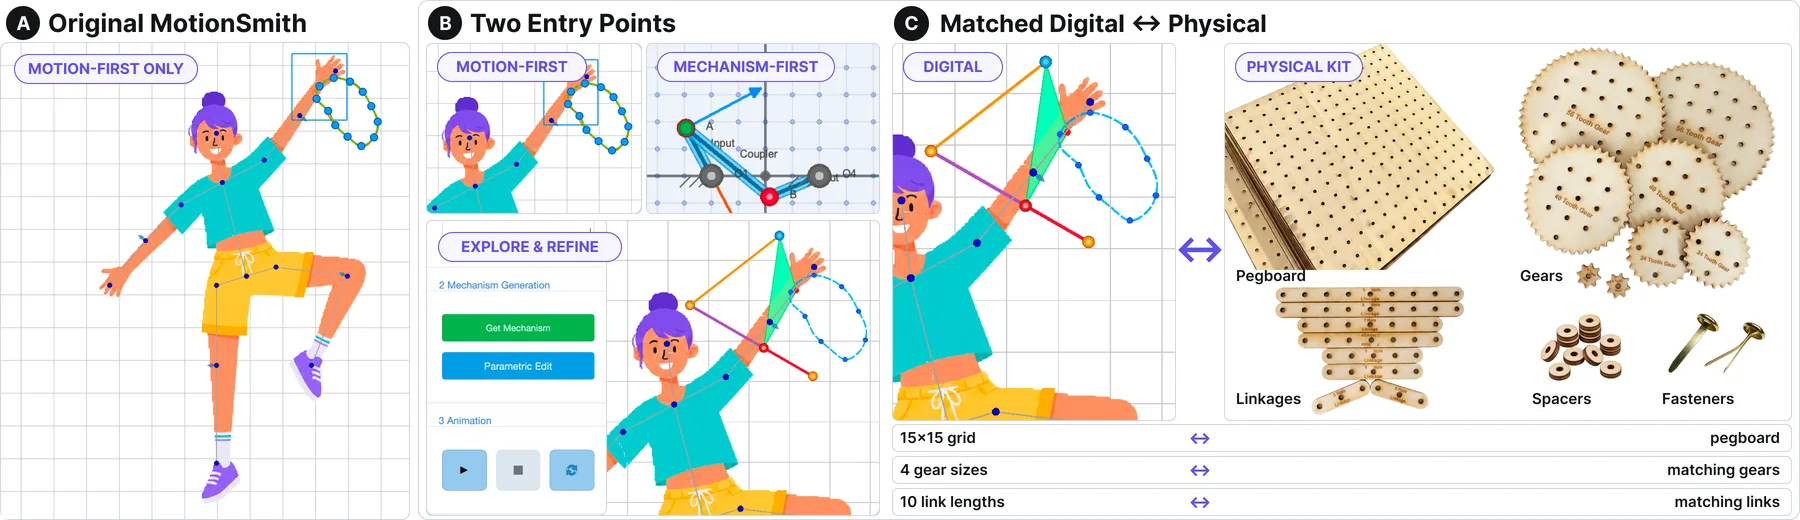
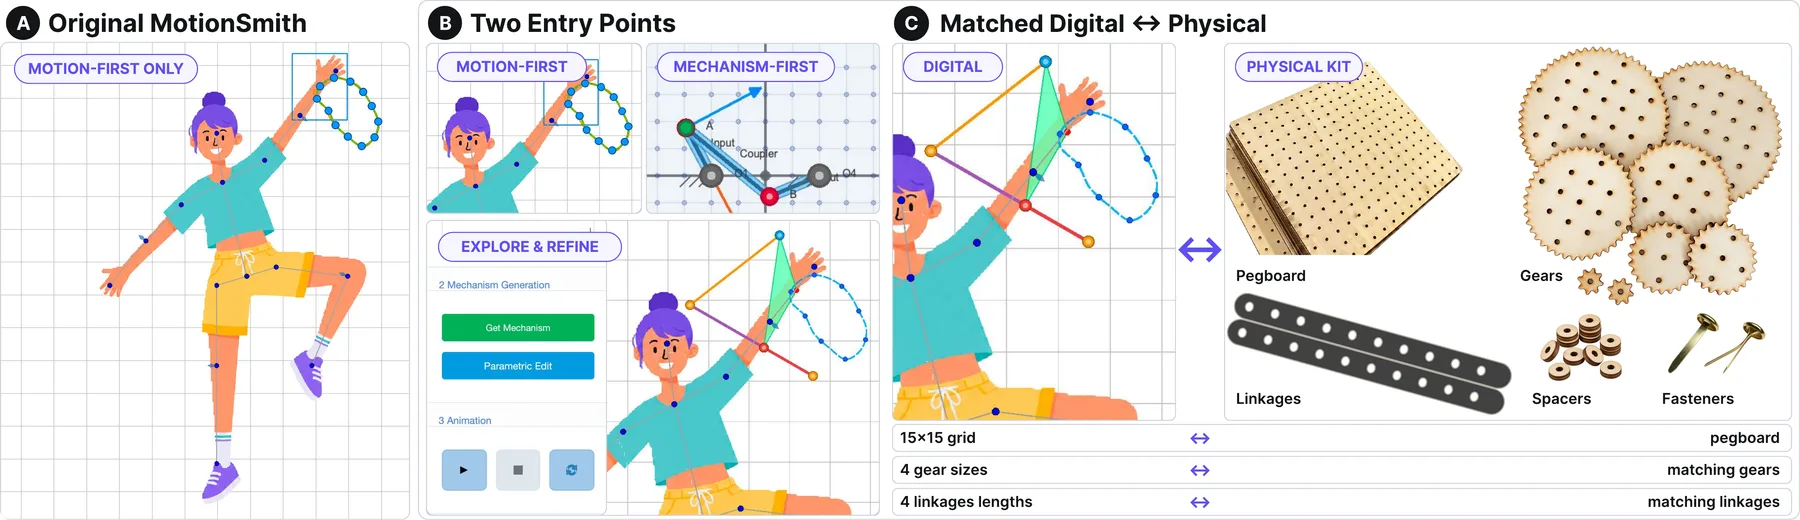
feat(project): re-sync young-makers page to the revised paper
Full content re-sync against the current manuscript (Sep 15 revision,
~/Workspace/motionsmith-overleaf/master-2) — every sentence, number,
caption, and quote traces to it:

- hero: revised title (3 lines), 3 authors, teaser caption verbatim
- gallery: fig 3 (caption unchanged) + fig 4 (new caption verbatim)
- system: fig 2 caption verbatim; FIVE consideration->revision panels
  (was four); §3 tensions + §4.1 starting conditions in the intro
- results: stats 4/5/3/129; settings table compiled from §6.2 prose
  (the revision's old deployment table is commented out in the tex)
- cases: T1/T3/T4 re-sourced — 58/35/36 students, T4 now Grade 6,
  verbatim participant quotes; case images are crops of the paper's
  fig 8 montage panels F/D/B (the panels each case's prose cites)
- removed stale v1 numbers (~200 students, 28/26 focal, School A/B
  labels — the revised text no longer names the schools) and the three
  superseded images (classroom-session, student-automaton, ms-prompts)
- demo video unchanged: the app at /ms is unmodified; intro re-phrased

diff --git a/content/projects/young-makers.md b/content/projects/young-makers.md
@@ -1,5 +1,5 @@
 ---
-title: "MotionSmith for Young Makers: Participatory Design and Deployment of a Mechanical Movement Design System with STEM Educators"
+title: "MotionSmith for Young Makers: Educator Co-Design and Enactment of a Mechanical CAD System"
 category: "research"
 paper: "synn2027youngmakers"
 order: 1
@@ -9,16 +9,15 @@ hero_eyebrow: "In review"
 title_mark: "MotionSmith"
 title_lines:
   - { mark: "MotionSmith", rest: "for Young Makers:" }
-  - { rest: "Participatory Design and Deployment of" }
-  - { rest: "a Mechanical Movement Design System" }
-  - { rest: "with STEM Educators" }
+  - { rest: "Educator Co-Design and Enactment" }
+  - { rest: "of a Mechanical CAD System" }
 # Paper teaser caption, verbatim (main.tex teaser figure).
-teaser_caption: "MotionSmith is a sketch-based computational design system for automata making, adapted for young makers through participatory design with STEM educators. From left to right: (A) educators co-design the system in a hybrid workshop; (B) a maker sketches an intended motion and MotionSmith synthesizes fabricable mechanism candidates; (C) educators deploy the refined system in middle-school classrooms where (D) young makers design and fabricate working automata."
+teaser_caption: "MotionSmith is a sketch-based computational design system for automata making, adapted for young makers through participatory design with STEM educators. From left to right: (A) educators co-design the system in a hybrid workshop; (B) the resulting system is redesigned around young makers, through a classroom-oriented authoring workflow, a reusable fabrication kit, and instructional supports, enabling a maker to sketch an intended motion and explore synthesized, fabricable mechanism candidates, and move from digital design toward physical construction; and (C) educators enact the refined system in middle-school classrooms, where young makers collaboratively design and construct automata."
 # Compressed from the abstract (00-abstract.tex); expressions preserved.
-summary: "A sketch-based mechanical CAD system originally developed with expert automata artists, reshaped by four K–8 STEM educators into a classroom-facing environment — through a three-phase participatory design workshop and classroom deployments led by three participating educators."
+summary: "A sketch-based system for automata making originally developed with expert artists, adapted for young makers through a three-phase participatory design study with four K–8 STEM educators — and enacted in middle-school classrooms by three of them with 129 students at two schools."
 affiliations:
   - "Georgia Tech"
-author_affil: [1, 1, 1, 1]
+author_affil: [1, 1, 1]
 # Hero CTA chips: the live revised system. links[0] renders solid; non-anchor
 # links open in a new tab (isInternalHref treats /ms as internal — see
 # AcademicProject.astro). Code / Demo / BibTeX chips derive from papers.bib +
@@ -32,8 +31,8 @@ nav:
   - Results
   - Cases
   - Citation
-overview_heading: "Reshaping an expert-oriented CAD tool into a classroom-facing environment."
-# The workshop figures (paper figs 41/42) render as a two-up gallery with their
+overview_heading: "Bringing expert-oriented mechanical CAD into classrooms."
+# The workshop figures (paper figs 3/4) render as a two-up gallery with their
 # verbatim captions; the heading override replaces the graphics default.
 gallery_heading: "The co-design workshop"
 gallery:
@@ -45,207 +44,203 @@ gallery:
       wide: true
       caption: "Researcher-led workshop starting configuration before educator co-design. (A) Original MotionSmith supported a motion-first workflow. (B) We added a mechanism-first entry point so that motion-first and mechanism-first exploration could converge in a shared authoring space. (C) We matched the constrained digital design space to a reusable physical kit through a 15 × 15 grid, four gear sizes, and ten indexed linkage lengths. These elements were study starting conditions rather than educator-derived refinements."
     - src: "/images/young-makers/workshop-timeline.webp"
-      alt: "A compact timetable with three equal-width phase columns: Days 1–2 (10 hours in person), Day 3 (5 hours in person), and a remote phase of approximately 5 hours."
-      label: "Three-phase timetable"
+      alt: "Three panels illustrating the educator co-design process, with an unnumbered research-team revision block between Panels B and C: Experience as first-time users (10 hours in person over Days 1–2), Reframe as classroom facilitators (5 hours in person on Day 3), and Review & co-design as pedagogical designers (approximately 5 hours remotely), the research-team block synthesizing revisions to the digital system, physical kit, and facilitation supports."
+      label: "Three perspectives"
       wide: true
-      caption: "Three-phase timetable for the completed educator participatory-design workshop. Phase 1 (Days 1–2; 10 hours in person) asked educators to work as first-time users who explored MotionSmith, built automata, and documented breakdowns, questions, and redesign suggestions. Phase 2 (Day 3; 5 hours in person) shifted their perspective to classroom facilitators who mapped the student journey and designed instructional supports, coordination strategies, and assessment checkpoints. Phase 3 (remote; approximately 5 hours) asked educators to work as pedagogical designers who reviewed the revisions, proposed further refinements, and developed lesson plans and classroom-enactment criteria."
+      caption: "Educator co-design across three perspectives. (A) Experience through use and fabrication as first-time users. (B) Reframe through planning as classroom facilitators. (C) Review & co-design as pedagogical designers, reviewing revisions, developing lesson plans, and commenting on draft classroom-enactment criteria. The dashed return arrow represents their further critique and proposed refinements. The unnumbered block between (B) and (C) represents a research-team synthesis of educator experiences and classroom requirements into revisions to the digital system, physical kit, and facilitation supports."
 # Demo = a scripted screen recording of the live revised system at /ms.
 demo:
   src: "/videos/young-makers-demo.mp4"
   poster: "/videos/young-makers-poster.webp"
   alt: "Screen recording of a guided MotionSmith walkthrough: picking the Make a hand wave starter, exploring the layered 2.5D character canvas, playing the hand-wave motion, examining the four-bar mechanism candidate and prompt panel, and viewing the build plan and assembly steps."
-  intro: "A walkthrough of the revised system — classroom-oriented authoring workflows, a constrained reusable fabrication kit, and educator-facing scaffolds — recorded from the live deployment at alansynn.com/ms."
-# System section mirrors the paper's §3 (baseline + tensions) → §5
-# (considerations + revisions). The workflow figure is paper fig 31 with its
-# verbatim caption; the stage panels carry the four consideration titles
+  intro: "A walkthrough of the revised system — the classroom-oriented authoring workflow, the reusable fabrication kit, and the instructional supports — recorded from the live deployment at alansynn.com/ms."
+# System section mirrors the paper's §3 (baseline + tensions) → §5 (five
+# considerations + revisions). The workflow figure is paper fig 2 with its
+# verbatim caption; the stage panels carry the five consideration titles
 # verbatim, each followed by its resulting revision (compressed).
 system:
   heading: "Educator-informed design considerations and revisions"
-  intro: "MotionSmith is a sketch-based computational design system originally developed through participatory design with expert automata artists. The original workflow supports makers through three main stages — identifying a motion goal, exploring mechanism candidates, and exporting fabrication-ready outputs — and was designed to be iterative rather than linear."
+  intro: "MotionSmith is a sketch-based computational design system originally developed through participatory design with expert automata artists. Before the educator collaboration, the research team identified three assumptions of the expert workflow that might become consequential in classrooms — concerning the formulation of motion goals, the interpretation of computational information, and the transition from digital design to physical construction — and prepared starting conditions for educators to examine through hands-on use: a dual-path workflow, interactive mathematical explanations, and a grid-constrained environment paired with a reusable physical kit. Educators' input informed five design considerations linking their experiences and classroom requirements to revisions of MotionSmith, the physical kit, and instructional supports."
   workflow:
     src: "/images/young-makers/original-system.webp"
     alt: "A three-panel pipeline diagram showing the MotionSmith workflow from sketching a motion goal, through exploring parameterized mechanism candidates, to exporting fabrication-ready files, with bidirectional arrows indicating iteration between stages."
-    caption: "Overview of the original MotionSmith workflow. Users (a) identify a motion goal by sketching a path on an articulated character rig, (b) explore computationally synthesized mechanism candidates across three families with approximate motion-match scores and edit their parameters, and (c) export fabrication-ready layered vectors for laser cutting, 3D printing, or hand-cutting. Arrows indicate that the workflow is iterative rather than linear."
+    caption: "Original MotionSmith workflow. Users (A) sketch a motion path on an articulated character rig, (B) compare and edit synthesized mechanism candidates, and (C) export fabrication files for physical construction."
   stages:
     - index: "01"
-      title: "Sustaining Progress Across Entry, Interruption, and Recovery"
-      text: "File-based saving and resumption; the workflow divided into smaller, recoverable stages; prepared examples and a workflow overview as recognizable starting points; localized recovery controls alongside the global reset; and a browser-based version for school-managed devices."
+      title: "Providing a Concrete Yet Revisable Design Goal"
+      text: "Motion-first is now the default workflow: the system opens with a blank articulated-character template, and users can retain the template or replace it with an imported image as their ideas develop. When the template is retained, its component outlines are incorporated into the exported fabrication files, so the character can be constructed and personalized through physical craft."
     - index: "02"
-      title: "Making Mechanism and Assembly Relationships Spatially Legible"
-      text: "A layered 2.5D visualization that spatially separated overlapping components, fixed joints differentiated from moving connections, and a stacked assembly view showing component order, connection locations, and required spacing before physical construction."
+      title: "Sustaining Progress Across Entry, Interruption, and Recovery"
+      text: "A browser-based version removes installation barriers on school-managed devices; prepared examples and a workflow overview provide recognizable starting points; manual save and load let users download an editable project file and reimport it to continue across class periods; and a history of up to ten coarse-grained events lets users return to earlier design states."
     - index: "03"
-      title: "Aligning Digital Designs with Reusable Classroom Materials"
-      text: "Cut-to-length linkages replaced with reusable plywood linkages in standardized lengths, a shared size and labeling scheme across the software, fabrication files, and physical kit, and printable parts condensed into a one- or two-page packet."
+      title: "Making Mechanism and Assembly Relationships Spatially Legible"
+      text: "The simulation canvas now uses a layered 2.5D visualization that spatially separated overlapping components while retaining the underlying planar mechanism model, fixed joints are differentiated from moving connections, and a stacked assembly view in the fabrication instructions shows component order, connection locations, and required spacing before physical construction."
     - index: "04"
+      title: "Aligning Digital Designs with Reusable Classroom Materials"
+      text: "Cut-to-length illustration-board linkages are replaced with reusable plywood linkages in standardized lengths, a shared size and labeling scheme spans the software, fabrication files, and physical kit, printable parts condense into a one- or two-page packet, and screen-based instructions show connection locations, layering, spacers, and assembly order."
+    - index: "05"
       title: "Supporting Educator-Configured Explanation and Activity"
-      text: "Real-world application examples linked to curated online videos, and an on-demand prompt panel from which educators select questions aligned with their instructional goals — asking students to predict, compare, explain, or diagnose."
+      text: "Explanatory support became a configurable resource for classroom facilitation: an on-demand prompt panel from which educators select questions asking students to predict how a change would affect motion, compare alternatives, explain an observed result, or diagnose a difference between simulated and physical behavior, supplemented by real-world application examples linked to curated online videos."
   zoom:
     src: "/images/young-makers/ms-canvas.webp"
     alt: "The revised MotionSmith Mechanism Foundry: a four-bar linkage candidate playing on the layered canvas beside the prompt panel, stack readout, rig-opacity and explode sliders, and kit-compatible link-hole parameters."
     caption: "The revised system, live at alansynn.com/ms — a four-bar candidate in the Mechanism Foundry with the on-demand prompt panel and kit-compatible link-hole parameters (3-, 9-, 5-hole)."
   interface:
     heading: "The revisions, in the live system"
-    copy: "The simulation canvas uses a layered 2.5D visualization that spatially separates overlapping components, fixed joints are differentiated from moving connections, and a stacked assembly view joins the fabrication instructions. An on-demand prompt panel lets educators select questions aligned with their instructional goals."
-# The deployment study under its own name (§6). stat values are the paper's.
+    copy: "The simulation canvas uses a layered 2.5D visualization that spatially separates overlapping components, fixed joints are differentiated from moving connections, and a stacked assembly view joins the fabrication instructions. An on-demand prompt panel lets educators select questions aligned with their instructional goals — asking students to predict, compare, explain, or diagnose."
+# The enactment study under its own name (§6). stat values are the paper's.
 results_heading: "Classroom enactment"
 stat_callouts:
-  - { value: "4", label: "K–8 STEM educators in the three-phase hybrid participatory design workshop" }
-  - { value: "3", label: "middle-school classroom deployments led by participating educators" }
-  - { value: "~20 h", label: "of co-design across three phases, in-person and remote" }
-  - { value: "40–80 min", label: "class periods the activities were designed to span" }
-# The deployment table as the paper has it (§6, Table: columns and rows
-# verbatim; per-cell line breaks become "·").
+  - { value: "4", label: "K–8 STEM educators in the three-phase participatory design study" }
+  - { value: "5", label: "educator-informed design considerations, implemented as revisions to the workflow, kit, and instructional supports" }
+  - { value: "3", label: "classroom enactments at two schools, led by three of the four educators" }
+  - { value: "129", label: "middle-school students in the enacted classroom activities" }
+# Compiled from §6.2's prose — the revision's old classroom-settings table is
+# commented out in the tex, so the page rebuilds the settings from the text.
 results:
-  caption: "Overview of the three classroom deployments and representative evidence."
-  note: "Approximately 80 students participated across T3's and T4's separate School A classes in total. Case identifiers follow the paper (T1–T4; Schools A and B)."
-  columns: ["Case", "Local activity configuration", "Representative enactment evidence", "Operational context"]
+  caption: "Classroom settings for the three educator-led enactments, compiled from Section 6.2 of the paper."
+  note: "All three educators planned projects in groups of two or three students; 36 fabrication kits were prepared and 18 supplied to each school; both schools provide a Chromebook for every student. T1's enactment is documented through educator reports and materials, while T3's second and T4's third sessions were directly observed."
+  columns: ["Case", "Class", "Students", "Sessions"]
   rows:
     - {
         cells:
           [
-            "T1 · Grade 6 STEAM · 3 sessions; ~200 · 38 focal",
-            "Imagine Yourself as a Scientist; “computer scientists” and “graphic designers”",
-            "Differentiated roles across simulation, character design, and construction; projects resumed across sessions",
-            "Saved/reopened projects; group boxes; 16 reusable kits + spares; district access approval",
+            "T1 · Grade 6 STEAM",
+            "2 classes",
+            "58",
+            "4 × ~45 min",
           ],
       }
     - {
         cells:
           [
-            "T3 · Grade 8 STEM · 3 sessions · 24 focal",
-            "Open exploration across character motion, mechanisms, and fabrication",
-            "Groups chose their own designs and progressed through the digital-to-physical workflow",
-            "Work continued across sessions; shared kits; School A IT approval",
+            "T3 · Grade 8 Engineering Foundation",
+            "1 class",
+            "35",
+            "3 × 60 min",
           ],
       }
     - {
         cells:
           [
-            "T4 · Grade 8 STEM · 4 sessions · 26 focal",
-            "10–15 min Exploration Challenge; screenshot + reflection",
-            "Copilot-supported troubleshooting; question about changing the physical assembly from the blueprint",
-            "Group-box storage; component reuse; School A managed devices",
+            "T4 · Grade 6 STEM",
+            "1 class",
+            "36",
+            "3 × 55 min",
           ],
       }
-# §6.3 accounts, verbatim where quoted. Case images are the paper's own teaser
-# panels (C/D crops) and the live prompt panel; captions describe the images
-# honestly rather than asserting a specific classroom match.
+# §6.3 accounts, verbatim where quoted. Case images are crops of the paper's
+# own deployment montage (Fig. 8): T1 → panel F, T3 → panel D, T4 → panel B
+# (the panels the prose cites for each classroom). Captions name the panel.
 cases_heading: "Educator-led classroom enactments"
-cases_intro: "The refined criteria focused on evidence of students' design processes through reflection, goal-linked revision, documentation, sharing, and transfer — T2 stated that “effective iteration is more than making changes.” Three of the educators then enacted the configuration in their own middle-school classrooms."
+cases_intro: "Three criteria — sustained and productive engagement, intentional design and iterative revision, and interest in continuing or extending the activity — guided attention during the enactments; T2 noted that “effective iteration is more than making changes.” In post-activity interviews, all three educators reported high student engagement and expressed plans to use MotionSmith and the accompanying kits again."
 cases:
   - tab: "T1 · Grade 6 STEAM"
-    subtitle: "School B · 3 sessions"
-    image: "/images/young-makers/classroom-session.webp"
-    alt: "Middle-school students working in MotionSmith on desktop computers during a classroom deployment."
-    caption: "Students working in MotionSmith during a classroom deployment (paper teaser, panel C)."
-    lede: "At School B, T1 connected MotionSmith to his existing Imagine Yourself as a Scientist activity, in which students designed a character and its movement before moving toward physical construction."
+    subtitle: "2 classes · 58 students · 4 sessions"
+    image: "/images/young-makers/case-t1.webp"
+    alt: "MotionSmith running on a laptop beside a hand-drawn segmented character on paper."
+    caption: "A student-drawn character accompanies MotionSmith use (paper Fig. 8, panel F)."
+    lede: "T1 integrated MotionSmith into an ongoing activity themed “Imagine Yourself as a Scientist”: students first drew their scientist characters and designed movements for them in MotionSmith, and divided responsibilities between digital design and physical construction when projects moved to team work."
     facts:
       - {
           label: "Differentiated roles",
-          text: "“We split the class into roles, computer scientists and graphic designers.” Students working at the computer concentrated on simulation and motion design, while other group members worked on character design, decoration, and construction.",
+          text: "“We split the class into roles, computer scientists and graphic designers,” T1 reported during enactment; some students concentrated on digital design while others constructed the mechanisms for their envisioned scientist characters.",
+        }
+      - {
+          label: "Engagement and access",
+          text: "T1 reported in text messages that students “really like the simulation,” and recorded in his written notes that students wanted to continue working on their projects; the simulation was initially blocked and ran slowly on the school network, and he described difficulty recalling a procedure during class: “I couldn't remember how to do it and I don't have the time to try and figure it out with the students here.”",
         }
       - {
           label: "Continuity across sessions",
-          text: "Groups reopened saved MotionSmith projects during later periods and stored unfinished physical work together in group boxes; reusable mechanism components were returned to the shared kits after completion.",
+          text: "Students lost unsaved progress when they reloaded the page or reopened the browser window, and the limited recovery history was insufficient for some students; T1 requested browser-based autosaving and additional recovery checkpoints, since manual save and load still depended on students remembering to save.",
         }
-      - {
-          label: "Scale",
-          text: "Approximately 200 students participated across T1's classes using 16 kits plus spare components.",
-        }
-  - tab: "T3 · Grade 8 STEM"
-    subtitle: "School A · 3 sessions"
-    image: "/images/young-makers/student-automaton.webp"
-    alt: "Students assembling a fabricated automaton from plywood gears and linkages on a pegboard."
-    caption: "Assembling fabricated automata from the reusable kit (paper teaser, panel D)."
-    lede: "At School A, T3 used MotionSmith as a largely open exploration, allowing groups to choose what they wanted to make and to explore character motion and mechanisms without assigning a single target design."
+  - tab: "T3 · Grade 8 Engineering Foundation"
+    subtitle: "1 class · 35 students · 3 sessions"
+    image: "/images/young-makers/case-t3.webp"
+    alt: "Several students gathered around a workstation running MotionSmith, with a nearby laptop displaying a teacher-provided activity document in Google Classroom."
+    caption: "Students working with MotionSmith alongside a teacher-provided activity document (paper Fig. 8, panel D)."
+    lede: "T3 began with 15–20 minutes of exploration on Chromebooks, then moved the activity to a computer lab, where desktop computers offered larger monitors and each team received a fabrication kit; designs began from the blank character template, with the physical components explored alongside the mechanism designs."
     facts:
       - {
-          label: "Open exploration",
-          text: "Groups chose their own designs and progressed through the digital-to-physical workflow — from digital character and motion design through mechanism exploration and into physical construction.",
+          label: "Purposeful revision",
+          text: "“What change had the biggest effect on the movement? What happened? Why do you think this happened?” — T3 reported asking questions like these frequently; his Exploration Challenge sheet asked students to change a motion or setting, try an alternative mechanism or design choice, and document the result through a screenshot and written reflection.",
         }
       - {
-          label: "Pace",
-          text: "Groups progressed at different rates, and unfinished work continued during subsequent periods.",
+          label: "An alternative six-bar",
+          text: "When a student asked whether the physical assembly could differ from the generated blueprint, T3 documented his encouragement of the direction; the student explored an alternative six-bar configuration, consulted the school-supported AI chat for guidance on how the mechanism could be constructed, and continued developing the design — exploration T3 described as educationally valuable.",
         }
       - {
-          label: "Operational context",
-          text: "Work continued across sessions; shared kits; School A IT approval.",
+          label: "What T3 asked for next",
+          text: "T3 noted that students “stayed on it” and wanted more time; he proposed networked access to saved group projects so he could review progress from his own computer, a teacher-facing interface for selecting shared projects as whole-class examples, and support for more advanced students to design complex mechanisms from scratch.",
         }
-  - tab: "T4 · Grade 8 STEM"
-    subtitle: "School A · 4 sessions"
-    image: "/images/young-makers/ms-prompts.webp"
-    alt: "The revised system's prompt panel: an educator-configurable question with Try, Look, and Hint supports, above the stack readout and kit-compatible link-hole parameters."
-    caption: "The revised system's on-demand prompt panel (alansynn.com/ms) — educators select questions aligned with their instructional goals."
-    lede: "T4 framed part of his School A deployment through a teacher-created Exploration Challenge, instructing students that their task was “not to master it” but to “experiment, notice what changes,” documented through a screenshot and brief reflection."
+  - tab: "T4 · Grade 6 STEM"
+    subtitle: "1 class · 36 students · 3 sessions"
+    image: "/images/young-makers/case-t4.webp"
+    alt: "Two students seated together in front of a desktop monitor displaying an articulated character and mechanism in MotionSmith."
+    caption: "Collaborative character and mechanism design at a shared workstation (paper Fig. 8, panel B)."
+    lede: "T4 devoted the first session to individual exploration and asked students to save their design files; in the second session he organized students into pairs and distributed the fabrication kits, and each pair reviewed its members' saved designs and negotiated a shared direction for the team project."
     facts:
       - {
-          label: "Copilot-supported troubleshooting",
-          text: "One student encountering a technical problem consulted the school's supported Copilot service; T4 asked the student how the returned information could be applied to the problem and prompted the student to identify a possible next step.",
+          label: "The high-five pair",
+          text: "One group wanted two characters to high-five; as students developed the idea, they recognized that one character needed to use its left hand and the other its right, and coordinated changes to their designs. T4 interpreted the episode as evidence that students were developing motion ideas, identifying constraints, and working through them together.",
         }
       - {
-          label: "A question from the blueprint",
-          text: "At least two groups had begun building when one student asked whether the assembly could be “different from [the] blueprint.” The available note does not record whether the group subsequently changed the assembly or mechanism.",
+          label: "Kit boxes and continuity",
+          text: "T4 emphasized the value of the kit boxes, which held the accompanying components, fit the available storage, and allowed work to continue across sessions.",
         }
       - {
-          label: "Operational context",
-          text: "Group-box storage; component reuse; School A managed devices.",
+          label: "Simpler starting points",
+          text: "Complex character-motion design remained demanding for his Grade 6 students, T4 felt; he wanted activities to begin with simpler mechanical actions, such as moving an object, while retaining students' freedom to personalize and decorate their artifacts.",
         }
 citation_heading: "Cite this work."
 citation_intro: "The paper is under review; the BibTeX below reflects its current public citation — venue and DOI follow acceptance."
 acknowledgments: "With thanks to the four educators who co-designed, critiqued, and carried this work into their classrooms, and to the two schools that opened their doors."
 ---
 
-Interactive systems developed for expert makers can be difficult to bring into
-classrooms, where successful use depends not only on the interface, but also on
-materials, facilitation, and curricular goals. We investigate this challenge
-through MotionSmith, a sketch-based mechanical CAD system for designing automata
-that was originally developed with expert automata artists. We conducted a
-three-phase hybrid participatory design workshop with four K-8 STEM educators,
-who engaged with MotionSmith as first-time users, instructional facilitators,
-and pedagogical designers. Their participation reframed the design problem from
-supporting individual mechanical authoring to supporting classroom activity
-across digital design, physical fabrication, and educator facilitation. Based on
-this collaboration, we revised MotionSmith with classroom-oriented authoring
-workflows, a constrained reusable fabrication kit, and educator-facing
-scaffolds, while educators developed activities and learning goals around
-computational mechanical design. We then examined the educator-informed system
-through middle-school classroom deployments led by three participating
-educators. These deployments surfaced how students moved between intended
-motion, computational mechanisms, and physical assemblies, as well as where
-fabrication and sensemaking still required educator support.
+Bringing expert-oriented mechanical CAD into classrooms requires attention to
+novice learners, material constraints, and instructional goals. We examine this
+adaptation through MotionSmith, a sketch-based system for automata making
+originally developed with expert artists. In a three-phase participatory design
+study, four K–8 STEM educators used the system, proposed and reviewed revisions,
+and developed classroom activities. Their input informed five design
+considerations and revisions to the authoring workflow, reusable fabrication
+kit, and instructional supports. Subsequent classroom enactments led by three
+educators involved 129 middle-school students at two schools. Educator accounts
+and classroom observations documented how educators adapted the shared workflow
+while preserving student design choices, how they guided purposeful revision,
+and how project continuity required preserving digital designs and unfinished
+physical builds across class periods.
 
-Less is known about how educators can reshape an expert-oriented mechanical CAD
-system into a classroom-facing environment that supports novice sensemaking,
-material preparation, facilitation, and curricular integration. Before the
-educator collaboration, the research team prepared three adaptations for
-classroom-oriented exploration: a dual-path workflow supporting both
+Moving novel interactive systems from research prototypes or expert practice
+into educational settings remains difficult: educators must learn the
+technology, manage technical and material friction for novice students,
+coordinate shared resources and limited class time, and translate the
+system-enabled activities into meaningful learning opportunities. Before the
+educator collaboration, the research team prepared three starting conditions
+for educators to examine through hands-on use — a dual-path workflow supporting
 motion-first and mechanism-first design, interactive mathematical explanations,
 and a grid-constrained software environment paired with a reusable physical
-fabrication kit — starting points for the collaboration rather than outcomes of
-it. The team also identified three assumptions that might become consequential
-in classrooms, concerning the formulation of motion goals, the interpretation of
-computational information, and the transition from digital design to physical
-construction; these were researcher-generated starting points that educators
-could examine, challenge, and extend through hands-on use.
+fabrication kit — alongside three anticipated educational tensions concerning
+how learners formulate motion goals, interpret computational feedback, and
+translate digital designs into physical artifacts.
 
-The research asks how STEM educators identify and reshape the system, material,
+The study asks how STEM educators identify and reshape the system, material,
 and facilitation conditions needed to adapt an expert-oriented mechanical CAD
 tool for classroom use; how they translate computational mechanism design into
-classroom activities, supports, and learning goals; and how the educator-informed
-system is enacted in middle-school classrooms — what supports and breakdowns
-emerge as students design and fabricate automata. Together, the findings show
-how educators can reshape an expert-oriented CAD tool into a classroom-facing
-environment and identify broader considerations for educational CAD systems
-whose use depends on coordinating computation, materials, facilitation, and
-curricular integration.
+classroom automata-making activities, instructional supports, and learning
+goals; and how the educator-informed system is enacted in middle-school
+classrooms — what supports and breakdowns emerge as students design and
+fabricate automata. It contributes the five design considerations, the revised
+workflow, kit, and instructional resources that implement them, and situated
+classroom accounts documenting how educators guided design exploration, sought
+different levels of mechanical complexity, and encountered difficulties
+preserving unfinished projects.
 
-Several limitations bound these findings: the co-design cohort was a single
-group of four STEM educators, the classroom deployment involved three of them at
-two schools, accounts of student experience are observation-, artifact-, and
-teacher-reported rather than drawn from student interviews, and the
-transformation was developed for automata specifically. The paper's conclusion:
-"The broader implication for educational fabrication tools is that they must
-ship as kits, scaffolds, and curricula rather than as software alone, and that
-bringing educators into the design of such tools, as both co-designers and
-classroom implementers, is what made a classroom-facing system legible in this
-study."
+Several limitations bound these findings: the classroom educators had
+participated in the co-design, direct researcher observation covered one
+session each in T3's and T4's classes while T1's enactment is documented
+through educator reports, and the analysis examined classroom organization and
+resource use rather than learning gains. The paper concludes: "Adapting
+expert-oriented CAD for classrooms involves shaping the software, materials,
+and instructional supports around how young makers collaboratively develop
+their projects and how educators guide that work."
